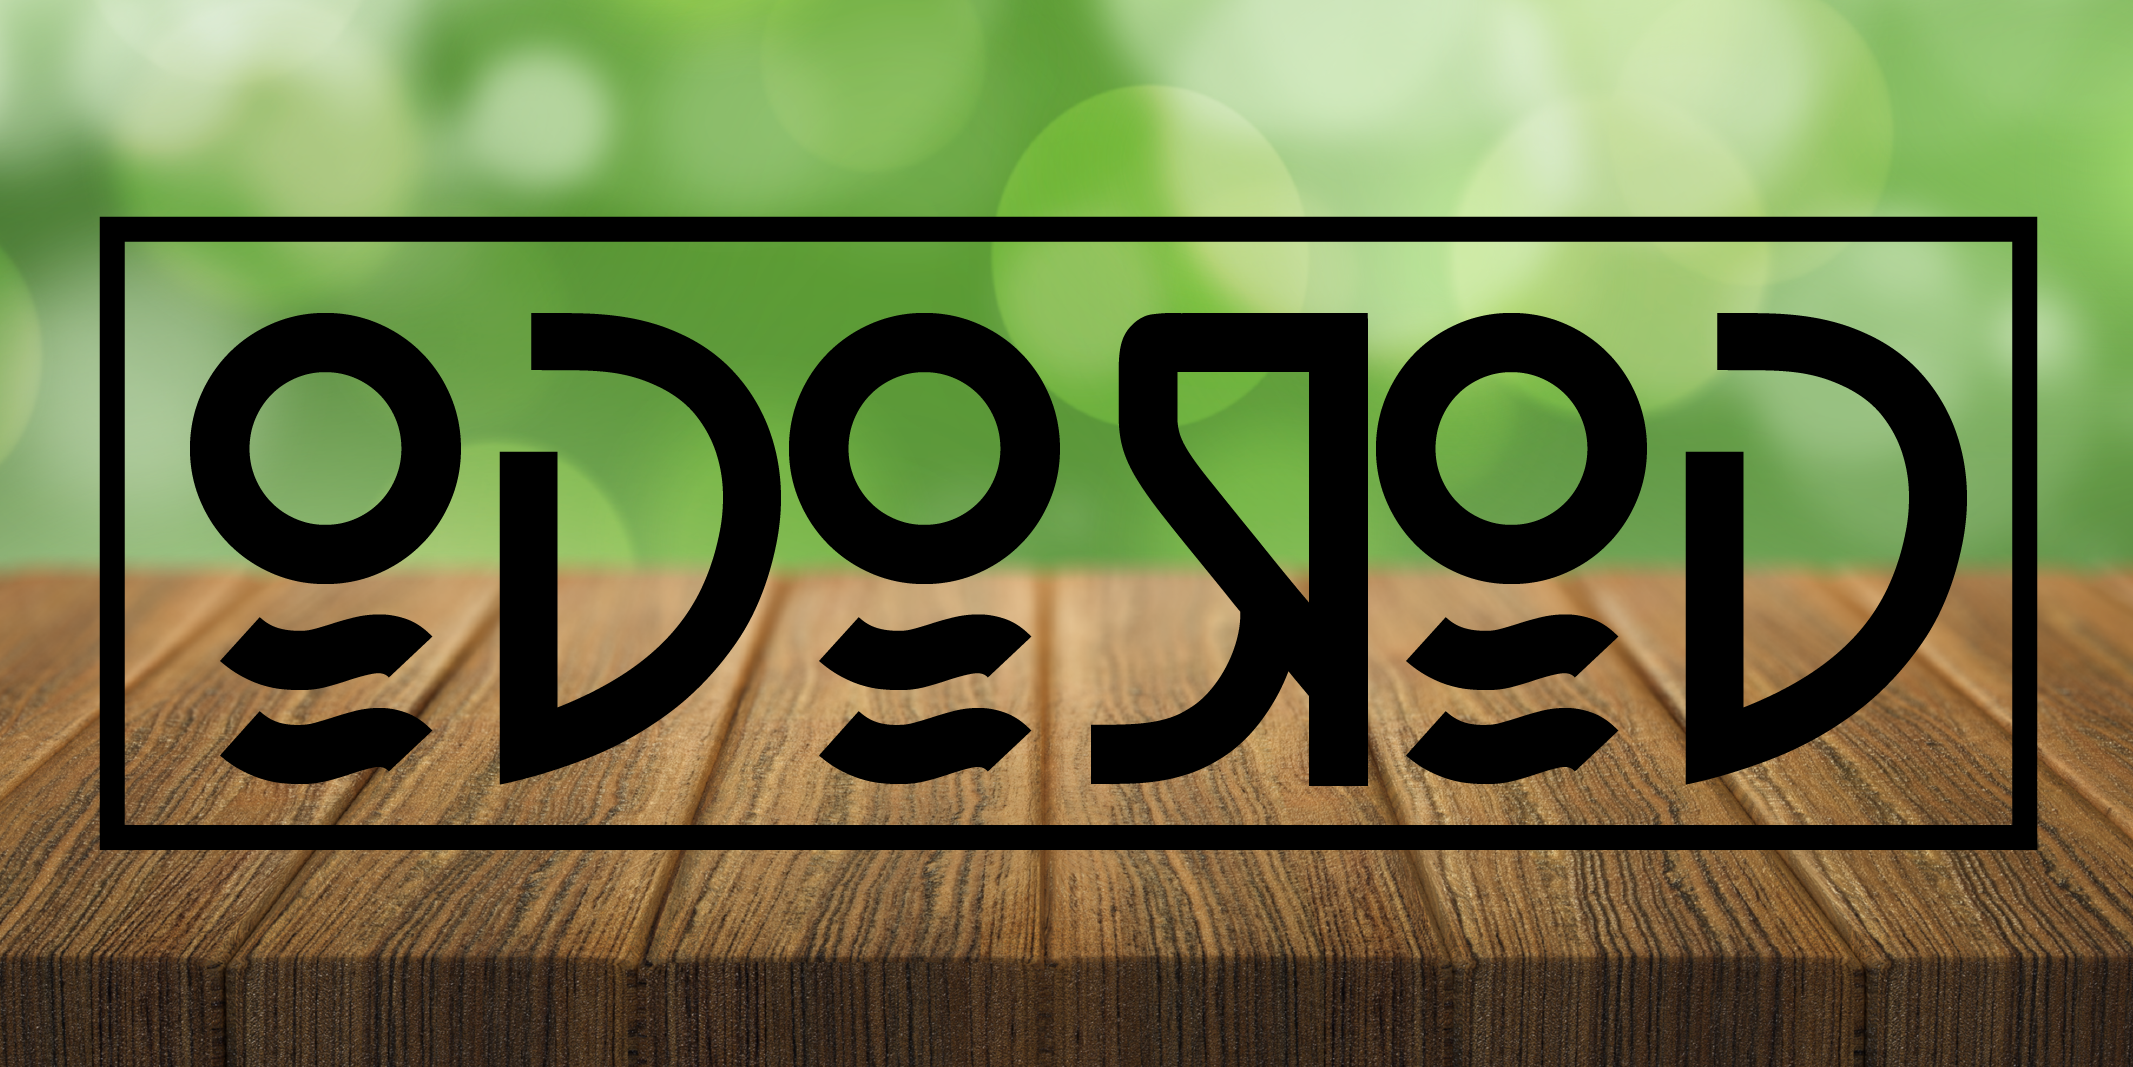
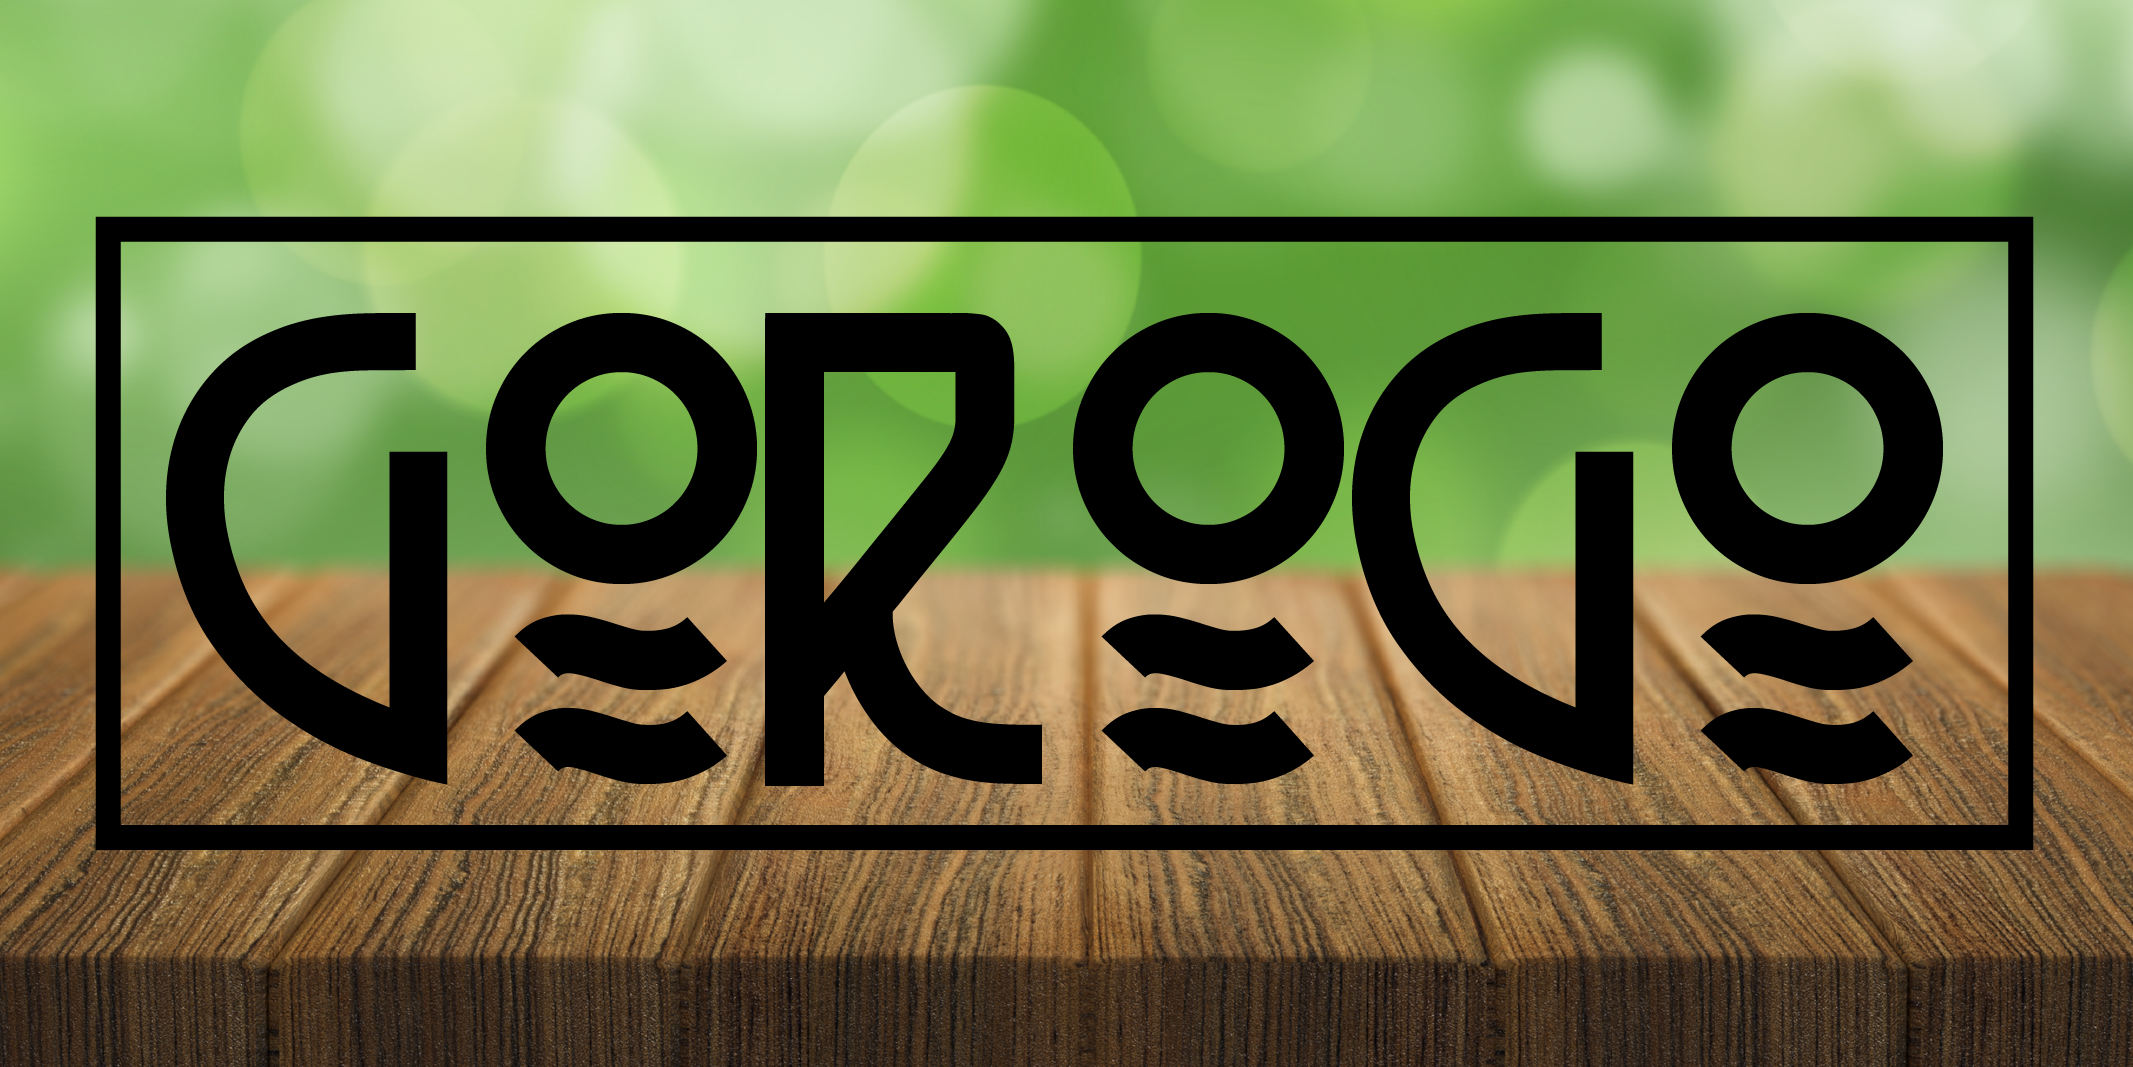
Fixed marker images and block the mouse

diff --git a/Project 3/main.js b/Project 3/main.js
@@ -34,7 +34,7 @@ serialInclude(['../lib/CGF.js', 'XMLscene.js', 'MySceneGraph.js',
 	app.setScene(myScene);
 	app.setInterface(myInterface);
 
-	myInterface.setActiveCamera(myScene.camera);
+	// myInterface.setActiveCamera(myScene.camera);
 
 	// get file name provided in URL, e.g. http://localhost/myproj/?file=myfile.xml
 	// or use "demo.xml" as default (assumes files in subfolder "scenes", check MySceneGraph constructor)

diff --git a/Project 3/game/MyGoRoGo.js b/Project 3/game/MyGoRoGo.js
@@ -223,7 +223,6 @@ MyGoRoGo.prototype.display = function(){
 	this.scene.pushMatrix();
 	this.scene.translate(-46.7, 32, 20);
 	this.scene.scale(40,10,40);
-	this.scene.rotate(Math.PI,1,0,0);
 	this.scene.rotate(Math.PI/2,0,1,0);
 	this.goRoGoAppearance.bind();
 	this.rect.display();
